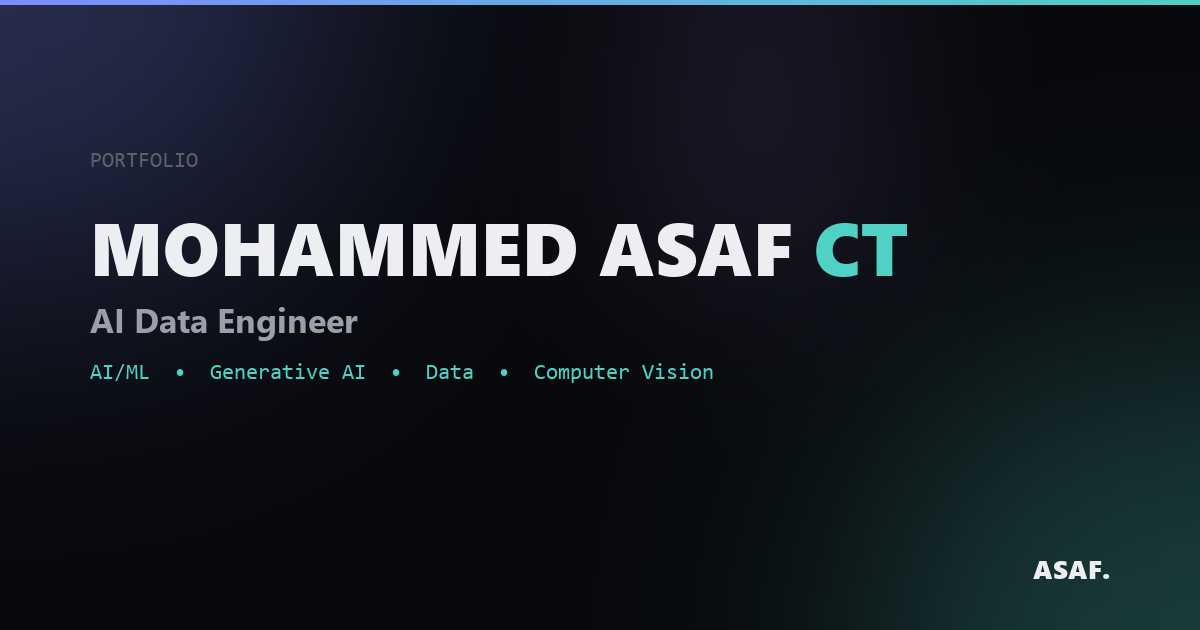
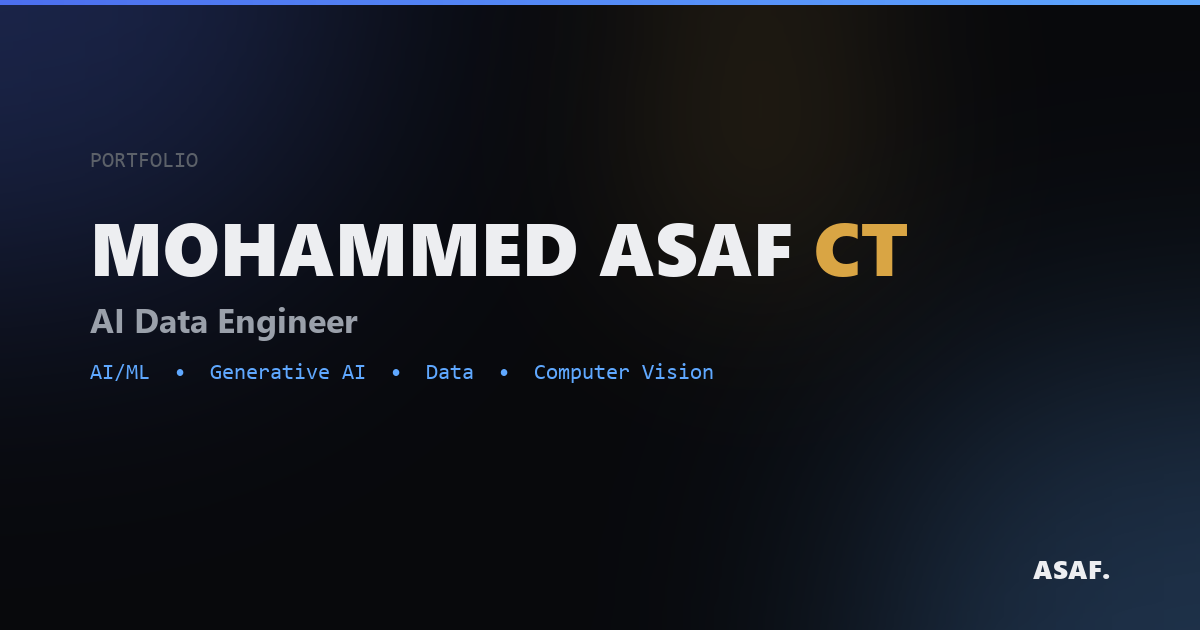
Rebrand to a blue + gold "trust and achievement" theme
Replaced the indigo/teal/violet AI-hackathon palette with a cohesive
two-tone system: cobalt/sky blue as the dominant interactive color
throughout (kickers, links, dots, progress bar, buttons), with a
warm gold reserved for rare signature/achievement moments only —
the hero initials, the "Featured" project badge, and certification
icons. Regenerated the OG share image and favicon set to match.

All existing interactivity (command palette, tilt, magnetic buttons,
gallery flip-cards, typewriter, accordions) is untouched — this is a
visual identity refresh, not a feature removal.

diff --git a/css/style.css b/css/style.css
@@ -14,10 +14,13 @@
   --text-muted: #9aa0aa;
   --text-faint: #5c6169;
 
-  --accent-1: #7c8cff;
-  --accent-2: #4fd1c5;
+  --accent-1: #4c6fef;
+  --accent-2: #5fa8ff;
+  --accent-gold: #d9a544;
   --accent-grad: linear-gradient(120deg, var(--accent-1), var(--accent-2));
-  --accent-soft: rgba(124, 140, 255, 0.12);
+  --accent-grad-gold: linear-gradient(120deg, var(--accent-1), var(--accent-gold));
+  --accent-soft: rgba(76, 111, 239, 0.12);
+  --accent-soft-gold: rgba(217, 165, 68, 0.14);
 
   --radius-sm: 10px;
   --radius-md: 16px;
@@ -46,7 +49,7 @@
   --text: #14161a;
   --text-muted: #565c66;
   --text-faint: #8b909a;
-  --accent-soft: rgba(124, 140, 255, 0.10);
+  --accent-soft: rgba(76, 111, 239, 0.10);
   color-scheme: light;
 }
 
@@ -120,7 +123,7 @@ section { position: relative; padding: 110px 0; }
 }
 
 .accent-text {
-  background: var(--accent-grad);
+  background: var(--accent-grad-gold);
   -webkit-background-clip: text;
   background-clip: text;
   color: transparent;
@@ -494,7 +497,7 @@ section { position: relative; padding: 110px 0; }
 }
 .orb-1 { width: 420px; height: 420px; background: var(--accent-1); top: -10%; left: -8%; --depth: 1; }
 .orb-2 { width: 380px; height: 380px; background: var(--accent-2); bottom: -12%; right: -6%; animation-delay: -5s; --depth: -1.4; }
-.orb-3 { width: 260px; height: 260px; background: #b28dff; top: 40%; right: 22%; animation-delay: -10s; opacity: 0.22; --depth: 0.8; }
+.orb-3 { width: 260px; height: 260px; background: var(--accent-gold); top: 40%; right: 22%; animation-delay: -10s; opacity: 0.18; --depth: 0.8; }
 
 @keyframes float {
   0%, 100% { transform: translate(calc(var(--px) * var(--depth)), calc(var(--py) * var(--depth))) scale(1); }
@@ -999,8 +1002,8 @@ section { position: relative; padding: 110px 0; }
   margin-left: 8px;
   padding: 2px 9px;
   border-radius: 999px;
-  background: var(--accent-soft);
-  color: var(--accent-2);
+  background: var(--accent-soft-gold);
+  color: var(--accent-gold);
   font-size: 10.5px;
   letter-spacing: 0.04em;
   text-transform: uppercase;
@@ -1303,7 +1306,7 @@ section { position: relative; padding: 110px 0; }
   transition: border-color var(--dur-fast) ease, transform var(--dur-fast) var(--ease);
 }
 .cert-card:hover { border-color: var(--border-strong); transform: translateY(-3px); }
-.cert-icon { color: var(--accent-2); font-size: 18px; }
+.cert-icon { color: var(--accent-gold); font-size: 18px; }
 .cert-card h4 { font-family: var(--font-display); font-size: 15.5px; font-weight: 600; margin: 12px 0 6px; }
 .cert-card p { color: var(--text-faint); font-size: 13px; }
 

diff --git a/index.html b/index.html
@@ -618,7 +618,7 @@
           <div class="tile-inner">
             <div class="tile-front">
               <span class="tile-flip-hint">Details ↻</span>
-              <div class="tile-icon" style="--icon-color: #b28dff;">
+              <div class="tile-icon" style="--icon-color: var(--accent-gold);">
                 <svg viewBox="0 0 24 24" fill="none" stroke="currentColor" stroke-width="1.5" stroke-linecap="round" stroke-linejoin="round"><rect x="2" y="4" width="20" height="14" rx="2"/><path d="M6 9l3 2-3 2"/><path d="M12 13h6"/></svg>
               </div>
               <span class="tile-label">Prompt Engineering</span>
@@ -654,7 +654,7 @@
           <div class="tile-inner">
             <div class="tile-front">
               <span class="tile-flip-hint">Details ↻</span>
-              <div class="tile-icon" style="--icon-color: #b28dff;">
+              <div class="tile-icon" style="--icon-color: var(--accent-gold);">
                 <svg viewBox="0 0 24 24" fill="none" stroke="currentColor" stroke-width="1.5" stroke-linecap="round" stroke-linejoin="round"><path d="M4 20L16 8"/><path d="M14 6l1.5 1.5"/><path d="M19 3l.6 1.4L21 5l-1.4.6L19 7l-.6-1.4L17 5l1.4-.6z"/><path d="M6 14l.5 1.2L8 16l-1.5.6L6 18l-.5-1.4L4 16l1.5-.6z"/></svg>
               </div>
               <span class="tile-label">Image Enhancement</span>

diff --git a/scripts/generate_images.py b/scripts/generate_images.py
@@ -1,5 +1,5 @@
 """Generates og-image.png and favicon assets for the portfolio, matching the site's
-dark/indigo/teal visual identity. Run once locally; not needed at deploy time."""
+dark blue/gold "trust + achievement" visual identity. Run once locally; not needed at deploy time."""
 
 from PIL import Image, ImageDraw, ImageFont, ImageFilter
 import os
@@ -8,9 +8,9 @@ OUT_DIR = os.path.join(os.path.dirname(__file__), "..", "assets")
 os.makedirs(OUT_DIR, exist_ok=True)
 
 BG = (8, 9, 12, 255)
-ACCENT_1 = (124, 140, 255)   # indigo
-ACCENT_2 = (79, 209, 197)    # teal
-ACCENT_3 = (178, 141, 255)   # violet
+ACCENT_1 = (76, 111, 239)    # cobalt blue
+ACCENT_2 = (95, 168, 255)    # sky blue
+ACCENT_3 = (217, 165, 68)    # gold
 TEXT = (237, 238, 241)
 MUTED = (154, 160, 170)
 
@@ -64,7 +64,7 @@ def make_og():
 
     d.text((left, y), "MOHAMMED ASAF ", font=name_font, fill=TEXT)
     name_w = d.textlength("MOHAMMED ASAF ", font=name_font)
-    d.text((left + name_w, y), "CT", font=name_font, fill=ACCENT_2)
+    d.text((left + name_w, y), "CT", font=name_font, fill=ACCENT_3)
     y += 100
 
     d.text((left, y), "AI Data Engineer", font=role_font, fill=MUTED)
